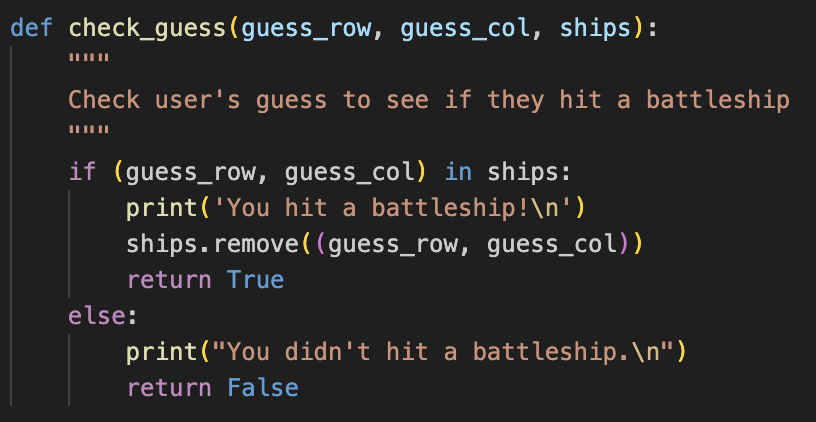
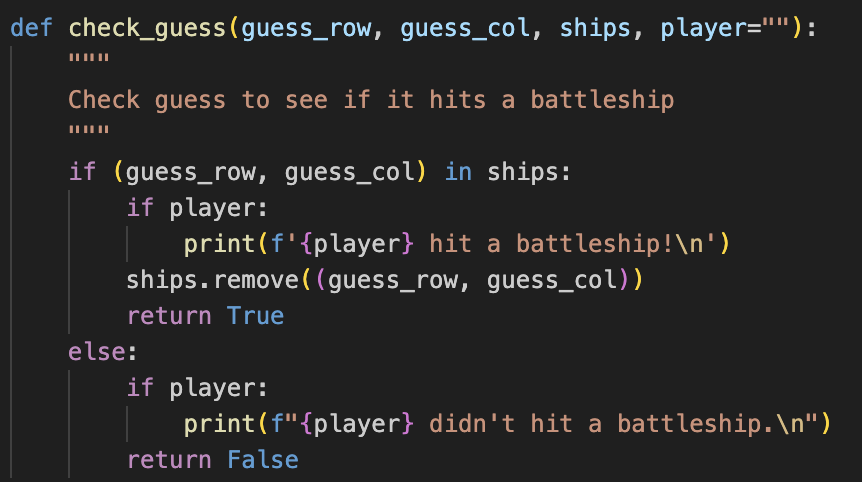
Update README file with latest version of information and images

diff --git a/README.md b/README.md
@@ -11,39 +11,44 @@ In the game, the user is initially asked to define a grid size they wish to play
 - Imports Python's built-in random module, which provides functions to generate random numbers and perform random operations
 - Enables the placement of ships at random locations on the game board, ensuring each game is unique and unpredictable, which enhances replayability and challenge
 
-### create_board(board)
+### create_board()
 ![Screenshot](assets/images/create-board.png)
 - Creates the game board as a 2D grid filled with the character '~' to represent water
 - Initializes the visual representation of the game board where players will make their guesses
 - Ensures a clean slate for each new game
 
-### print_board(board)
+### print_board()
 ![Screenshot](assets/images/print-board.png)
 - Prints the current state of the game board to the console
 - Provides a visual display of the game board, helping players see their guesses and the status of their hits and misses
 - Includes row and column numbers to guide user input
 
-### place_ships(board, size, num_ships)
+### place_ships()
 ![Screenshot](assets/images/place-ships.png)
 - Randomly places a specified number of ships on the game board, ensuring no two ships occupy the same space
 - Adds randomness to each game, making it challenging and replayable
 - Ensures that ships are distributed unpredictably, which enhances the strategic element of the game
 
-### get_user_guess(size)
+### get_user_guess()
 ![Screenshot](assets/images/get-user-guess.png)
 - Prompts the user to input their guess for a row and a column, validates the input, and handles incorrect input
 - Ensures user input is within the valid range and prevents invalid guesses
 - Provides clear feedback and re-prompts for incorrect input, enhancing the user’s interaction with the game
 
-### check_guess(guess_row, guess_col, ships)
+### computer_guess()
+![Screenshot](assets/images/computer-guess.png)
+- Generates a computer's guess for a row and column
+- Provides an opponent for the user to play against, adding challenge and unpredictability to the game
+
+### check_guess()
 ![Screenshot](assets/images/check-guess.png)
 - Checks if the user's guess hits a ship and updates the ships list accordingly
 - Provides immediate feedback on whether a guess was successful or not, keeping the user engaged
 - Updates the game state based on the user's actions, creating a dynamic game environment
 
-### update_board(board, guess_row, guess_col, hit)
+### update_board()
 ![Screenshot](assets/images/update-board.png)
-- Updates the game board to mark a guessed position as hit ('X') or missed ('-')
+- Updates the game board to mark a guessed position as hit ('X') or missed ('*')
 - Visually represents the results of the user’s guesses on the game board
 - Helps players keep track of their previous guesses and adjust their strategy
 
@@ -67,7 +72,7 @@ In the game, the user is initially asked to define a grid size they wish to play
 
 ### play_game()
 ![Screenshot](assets/images/play-game.png)
-- Manages the overall game flow, from setting up the board and placing ships, to handling user guesses and determining the game’s end
+- Manages the overall game flow, from setting up the board and placing ships, to handling user and computer guesses and determining the game’s end
 - Provides a seamless and structured gameplay experience
 - Ensures all game components work together correctly
 - Offers replayability by prompting the user to play again, enhancing engagement and enjoyment
@@ -75,7 +80,7 @@ In the game, the user is initially asked to define a grid size they wish to play
 ## Planning
 To aid with creating the game, so that it can be recreated by someone else, I developed this flowchart that outlines the flow and decisions involved in the game.
 
-![image](assets/images/flow-diagram.jpeg)
+![image](assets/images/flowchart.png)
 
 The flowchart serves as a visual representation of the game's structure, illustrating the sequence of operations and decision points in the game. This helps developers understand the overall flow and logic of the program, making it easier to identify key components and their interactions. Additionally, the flowchart facilitates debugging and enhancement of the program by clearly mapping out each step and decision point. It acts as a guide for implementing the game, ensuring that all necessary steps are covered and properly sequenced, and enhances communication among team members by providing a clear and concise visual representation of the game's logic.
 
@@ -88,6 +93,8 @@ In the terminal, I began by setting the size for the game and the amount of ship
 The user is limited in their guesses to provide a greater challenge. If this was not implemented, the user would be able to guess infinitely and win the game every time. The amount of guesses is equal to three times the size of the board. For example, if the user wants a board size of 8 rows by 8 columns, they are given 8 * 3 = 24 guesses. This enables the user a proportionate amount of guesses while still posing the risk of running out of guesses before they have found every battleship.
 
 As the command line / terminal is somewhat basic and primitive in visual representation of the game, I felt it was necessary to include numbered markers for each row and column, which makes guessing grid numbers far easier for the user.
+
+After working with this model for some time, I felt it would be more fun for the user to actually play against a computer who is also trying to sink the user's battleships, which took some trial and error to come out as expected but now works without issue.
 
 When moving over to the deployment of the game, the terminal is actually limited to 80 columns by 24 lines, which means that each line of text needs to be 80 characters or less or else it will be wrapped onto a second line. This presents an issue when allowing the user to input their desired size of the grid, as having information wrap to a new line disrupts how the grid is presented, making deciding on which cell to choose difficult as they fall out of alignment with the grid numbers that represent the column and row. Because of this constraint, I needed to set a limit of 10x10 grid size so the user experience isn't affected.
 
